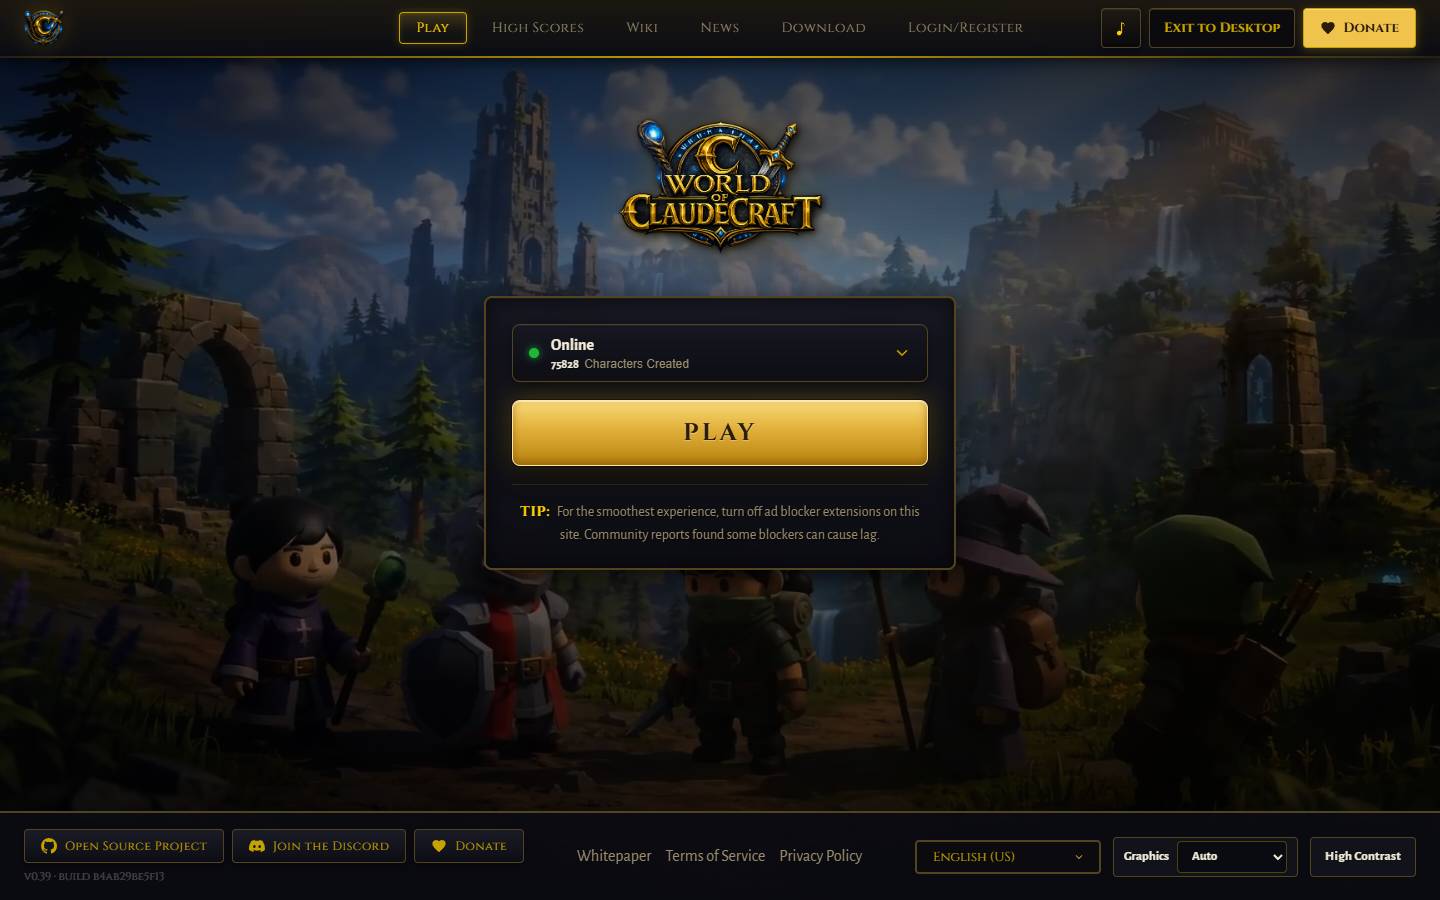
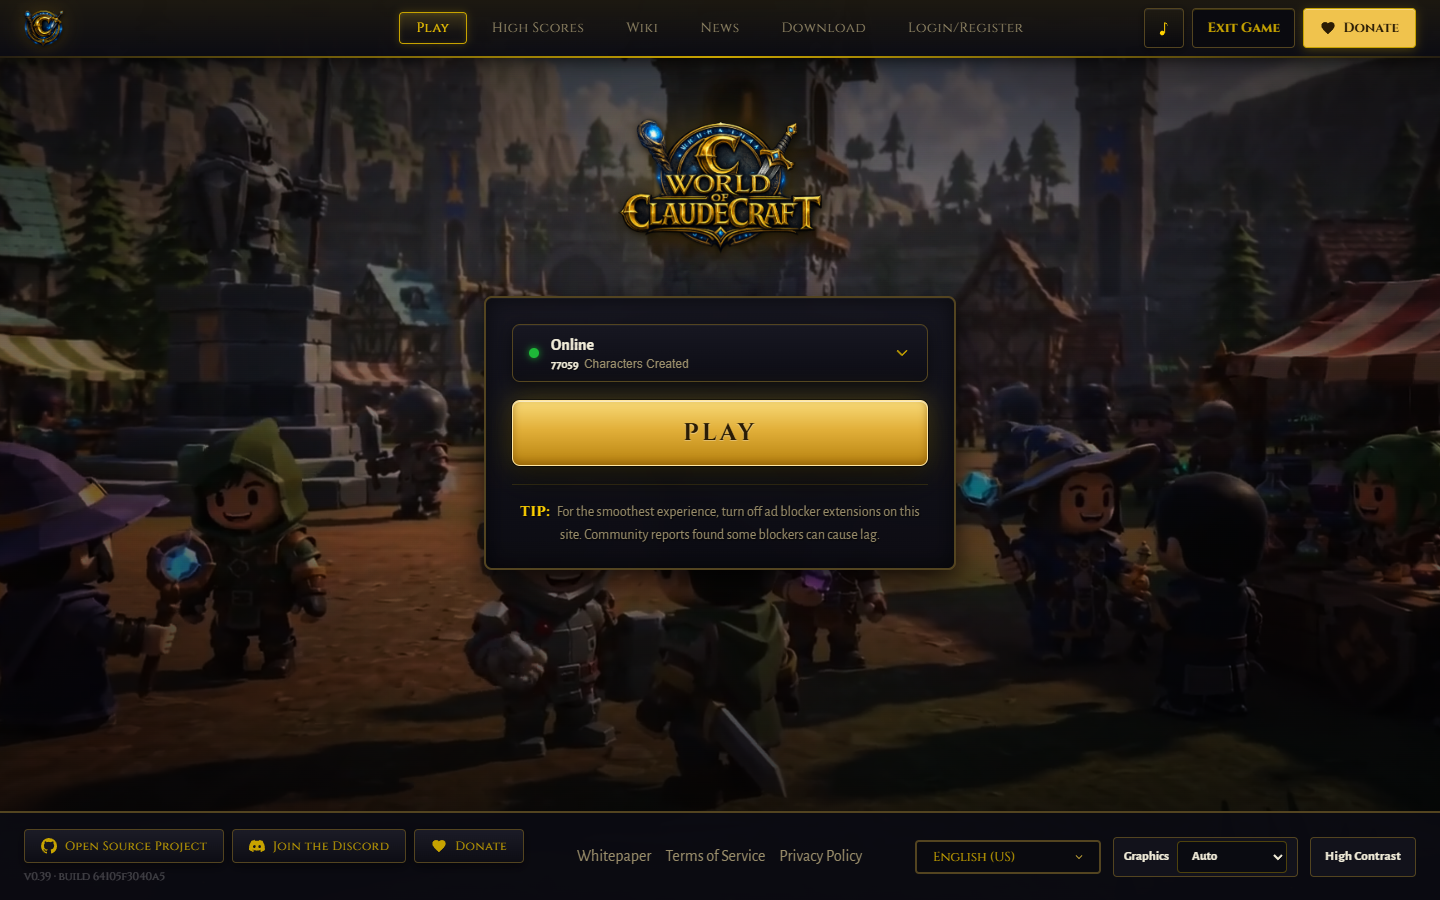
fix(i18n): rename the exit control key and fill every locale
The key was `desktop.window.exitToDesktop`, whose dotted `window` segment and
`window: {` catalog shape read as a browser-global reach to the src/ui purity
sweep, so the feature narrowed two detectors in tests/architecture.test.ts to
get green. Weakening a repo-wide invariant guard to fit our own naming is the
wrong trade: dropping `:` from the value-position class also stopped catching
a real reach such as `cond ? window : x`. The key is now
`desktop.titlebar.exitGame` and tests/architecture.test.ts is restored byte
for byte to the release base, guard strength intact.

The label reads Exit Game rather than Exit to Desktop: it says what the
control does in fewer words, and it keeps the string out of the wordy class
the M16 completeness check polices, so nothing about it leans on an
exception. All 21 locales are filled, so the registry reports pending=0, and
the after screenshot is recaptured from the borderless Electron shell.

diff --git a/tests/architecture.test.ts b/tests/architecture.test.ts
@@ -1643,9 +1643,7 @@ const SWEPT_BY_NAME_RE = /_(?:view|core|painter)\.ts$/;
 const UI_HOST_GLOBALS = 'document|window|navigator|localStorage|sessionStorage|globalThis';
 // Dereferenced: `window.innerWidth`, `globalThis?.localStorage`, `document['x']`,
 // and the formatter's broken member chain.
-const UI_HOST_MEMBER_RE = new RegExp(
-  `(?<!desktop\\.)\\b(?:${UI_HOST_GLOBALS})\\??\\s*(?:\\.[A-Za-z_$]|\\[)`,
-);
+const UI_HOST_MEMBER_RE = new RegExp(`\\b(?:${UI_HOST_GLOBALS})\\??\\s*(?:\\.[A-Za-z_$]|\\[)`);
 // Assigned, passed, returned, spread, shorthanded, probed or cast rather than
 // dereferenced: `= document)`, `(document)`, `return document;`, `() => window`,
 // `{ document }`, `[document, window]`, `{ ...globalThis }`,
@@ -1654,7 +1652,7 @@ const UI_HOST_MEMBER_RE = new RegExp(
 // open brace refuses a `${...}` interpolation so a template variable named
 // `window` (talent_i18n has one) is not mistaken for the global.
 const UI_HOST_VALUE_RE = new RegExp(
-  `typeof\\s+(?:${UI_HOST_GLOBALS})\\b|(?:[=(,?!\\[]|(?<!\\$)\\{|=>|\\.\\.\\.|\\breturn)\\s*(?:${UI_HOST_GLOBALS})\\s*(?:[),;!=}\\]]|\\s+as\\b|$)`,
+  `typeof\\s+(?:${UI_HOST_GLOBALS})\\b|(?:[=(,?!\\[]|(?<!\\$)\\{|=>|\\.\\.\\.|\\breturn)\\s*(?:${UI_HOST_GLOBALS})\\s*(?:[),;:!=}\\]]|\\s+as\\b|$)`,
   'm',
 );
 // window.location reached bare. Pinned to the real Location members so a game
@@ -1715,7 +1713,7 @@ const HELPER_HOST_PATTERNS: ReadonlyArray<readonly [string, RegExp]> = [
   [
     'a browser global, passed or probed',
     new RegExp(
-      `typeof\\s+(?:${HELPER_HOST_GLOBALS})\\b|(?:[=(,?!\\[]|(?<!\\$)\\{|=>|\\.\\.\\.|\\breturn)\\s*(?:${HELPER_HOST_GLOBALS})\\s*(?:[),;!=}\\]]|\\s+as\\b|$)`,
+      `typeof\\s+(?:${HELPER_HOST_GLOBALS})\\b|(?:[=(,?!\\[]|(?<!\\$)\\{|=>|\\.\\.\\.|\\breturn)\\s*(?:${HELPER_HOST_GLOBALS})\\s*(?:[),;:!=}\\]]|\\s+as\\b|$)`,
       'm',
     ),
   ],
@@ -1768,9 +1766,8 @@ const UI_PAINTER_HELPERS = [
 // reach is a clock or an RNG in a module that is otherwise pure, inject it instead
 // and stay out of both lists.
 //
-// The rot mode to know: a future catalog value carrying a bare string like
-// 'window.open' would trip the member matcher inside a data file. A dotted key
-// namespace such as 'desktop.window.exitToDesktop' is not a global reach. Most of the
+// The rot mode to know: a future catalog value carrying a string like
+// 'window.open' would trip the member matcher inside a data file. Most of the
 // residual modules are i18n catalogs, overlays and generated bundles (the
 // anti-vacuity pin below keeps them in scope) and NONE trips it today; they stay
 // in the sweep on purpose, since a directory exclusion is a hole of exactly the
@@ -2100,7 +2097,6 @@ describe('src/ui module classification (every module is swept by exactly one gat
       "'This document. Signed.',",
       'const windowless = computeViewport();',
       'this.documentTitle = t;',
-      "'desktop.window.exitToDesktop': 'Exit to Desktop',",
     ]) {
       expect(UI_HOST_MEMBER_RE.test(negative), negative).toBe(false);
     }
@@ -2125,7 +2121,6 @@ describe('src/ui module classification (every module is swept by exactly one gat
       "'Close the window, then click the marker.',",
       "'Open the document; read it.',",
       'const shadowWindow = 1;',
-      'window: { exitToDesktop: label },',
       // A template variable named window (talent_i18n has one) is not the global,
       // which is why the open-brace arm refuses a ${...} interpolation.
       `const label = \`(\${window})\`;`,

diff --git a/tests/client_shell.test.ts b/tests/client_shell.test.ts
@@ -216,11 +216,11 @@ describe('client HTML shell', () => {
     expect(controls[1]).toBe(controls[0]);
     expect(controls[0]).toContain('type="button"');
     expect(controls[0]).toContain('class="desktop-login-exit"');
-    expect(controls[0]).toContain('data-i18n="desktop.window.exitToDesktop"');
-    expect(controls[0]).toContain('data-i18n-title="desktop.window.exitToDesktop"');
-    expect(controls[0]).toContain('title="Exit to Desktop"');
+    expect(controls[0]).toContain('data-i18n="desktop.titlebar.exitGame"');
+    expect(controls[0]).toContain('data-i18n-title="desktop.titlebar.exitGame"');
+    expect(controls[0]).toContain('title="Exit Game"');
     expect(controls[0]).toMatch(/\n\s+hidden\s*\n/);
-    expect(controls[0]).toContain('>Exit to Desktop</button>');
+    expect(controls[0]).toContain('>Exit Game</button>');
     for (const entry of [html, playHtml]) {
       expect(entry.match(/id="desktop-login-exit"/g)).toHaveLength(1);
       const headerActions = entry.match(/<div class="header-actions">([\s\S]*?)<\/div>/)?.[1] ?? '';
@@ -261,14 +261,29 @@ describe('client HTML shell', () => {
     expect(mainTs).not.toContain('desktop-login-exit');
   });
 
-  it('pins the approved Exit to Desktop glossary values', () => {
-    expect(shellStrings.en.desktop.window.exitToDesktop).toBe('Exit to Desktop');
+  it('pins the approved Exit Game values in every locale overlay', () => {
+    expect(shellStrings.en.desktop.titlebar.exitGame).toBe('Exit Game');
     for (const [locale, translation] of [
-      ['zh_CN', '退出到桌面'],
-      ['zh_TW', '離開至桌面'],
-      ['ja_JP', 'デスクトップに戻る'],
-      ['ko_KR', '바탕 화면으로 나가기'],
-      ['ru_RU', 'Выйти на рабочий стол'],
+      ['cs_CZ', 'Ukončit hru'],
+      ['da_DK', 'Afslut spillet'],
+      ['de_DE', 'Spiel beenden'],
+      ['es', 'Salir del juego'],
+      ['es_ES', 'Salir del juego'],
+      ['fr_CA', 'Quitter le jeu'],
+      ['fr_FR', 'Quitter le jeu'],
+      ['id_ID', 'Keluar dari Gim'],
+      ['it_IT', 'Esci dal gioco'],
+      ['ja_JP', 'ゲームを終了'],
+      ['ko_KR', '게임 종료'],
+      ['nl_NL', 'Spel afsluiten'],
+      ['pl_PL', 'Zakończ grę'],
+      ['pt_BR', 'Sair do jogo'],
+      ['ru_RU', 'Выйти из игры'],
+      ['sv_SE', 'Avsluta spelet'],
+      ['tr_TR', 'Oyundan Çık'],
+      ['vi_VN', 'Thoát trò chơi'],
+      ['zh_CN', '退出游戏'],
+      ['zh_TW', '離開遊戲'],
     ]) {
       const overlay = readFileSync(
         new URL(`../src/ui/i18n.locales/${locale}.ts`, import.meta.url),
@@ -276,7 +291,7 @@ describe('client HTML shell', () => {
       )
         .replace(/(^|[^:])\/\/[^\n]*/gm, '$1')
         .replace(/\/\*[\s\S]*?\*\//g, '');
-      expect(overlay).toContain(`'desktop.window.exitToDesktop': '${translation}'`);
+      expect(overlay).toContain(`'desktop.titlebar.exitGame': '${translation}'`);
     }
   });
 

diff --git a/src/ui/i18n.resolved.generated/pending.ts b/src/ui/i18n.resolved.generated/pending.ts
@@ -9,55 +9,25 @@
 // Reproducibility is checked by tests/i18n_resolved_equivalence.test.ts.
 
 export const pending: Record<string, readonly string[]> = {
-  "es": [
-    "desktop.window.exitToDesktop"
-  ],
-  "es_ES": [
-    "desktop.window.exitToDesktop"
-  ],
-  "fr_FR": [
-    "desktop.window.exitToDesktop"
-  ],
-  "fr_CA": [
-    "desktop.window.exitToDesktop"
-  ],
+  "es": [],
+  "es_ES": [],
+  "fr_FR": [],
+  "fr_CA": [],
   "en_CA": [],
-  "it_IT": [
-    "desktop.window.exitToDesktop"
-  ],
-  "de_DE": [
-    "desktop.window.exitToDesktop"
-  ],
+  "it_IT": [],
+  "de_DE": [],
   "zh_CN": [],
   "zh_TW": [],
   "ko_KR": [],
   "ja_JP": [],
-  "pt_BR": [
-    "desktop.window.exitToDesktop"
-  ],
+  "pt_BR": [],
   "ru_RU": [],
-  "cs_CZ": [
-    "desktop.window.exitToDesktop"
-  ],
-  "nl_NL": [
-    "desktop.window.exitToDesktop"
-  ],
-  "pl_PL": [
-    "desktop.window.exitToDesktop"
-  ],
-  "id_ID": [
-    "desktop.window.exitToDesktop"
-  ],
-  "tr_TR": [
-    "desktop.window.exitToDesktop"
-  ],
-  "sv_SE": [
-    "desktop.window.exitToDesktop"
-  ],
-  "vi_VN": [
-    "desktop.window.exitToDesktop"
-  ],
-  "da_DK": [
-    "desktop.window.exitToDesktop"
-  ]
+  "cs_CZ": [],
+  "nl_NL": [],
+  "pl_PL": [],
+  "id_ID": [],
+  "tr_TR": [],
+  "sv_SE": [],
+  "vi_VN": [],
+  "da_DK": []
 };

diff --git a/src/ui/i18n.locales/fr_CA.ts b/src/ui/i18n.locales/fr_CA.ts
@@ -11,6 +11,7 @@
 import type { TranslationKey } from '../i18n.catalog';
 
 export const fr_CA: Partial<Record<TranslationKey, string>> = {
+  'desktop.titlebar.exitGame': 'Quitter le jeu',
   'hud.errors.tradeAlreadyTrading': 'Ce joueur est déjà en train de faire un échange.',
   'guide.professions.craftMasteryBody':
     "Quelques attentes honnêtes : la montée jusqu'au plafond de 125 d'un métier demande au moins 125 fabrications réussies, chaque fabrication à gain complet vous faisant progresser d'exactement un point, et en pratique un peu plus au fur et à mesure que les recettes s'estompent entre les échelons du formateur. La fabrication elle-même est rapide ; c'est l'approvisionnement qui constitue le vrai voyage, alors prévoyez quelques soirées dédiées à la récolte et à l'artisanat par métier.\n\nLes métiers de récolte atteignent leur plafond de 100 au fil d'une progression normale si vous récoltez en voyageant, bien que le dernier tronçon réclame les noeuds de haut palier du grand nord. La Pêche est la longue route par conception : selon son propre barème de gain, 200 points de maîtrise représentent plus de trois mille prises. Grand Pêcheur est un titre qui se gagne au fil d'une saison de soirées tranquilles, pas d'une fin de semaine.",

diff --git a/index.html b/index.html
@@ -731,11 +731,11 @@
             type="button"
             class="desktop-login-exit"
             id="desktop-login-exit"
-            data-i18n="desktop.window.exitToDesktop"
-            data-i18n-title="desktop.window.exitToDesktop"
-            title="Exit to Desktop"
+            data-i18n="desktop.titlebar.exitGame"
+            data-i18n-title="desktop.titlebar.exitGame"
+            title="Exit Game"
             hidden
-          >Exit to Desktop</button>
+          >Exit Game</button>
           <a class="donate-cta" href="https://ko-fi.com/worldofclaudecraft" target="_blank" rel="noopener noreferrer" data-i18n-title="a11y.donateProject" data-i18n-aria="a11y.donateProject" title="Support the project" aria-label="Donate to support World of ClaudeCraft">
             <svg viewBox="0 0 24 24" aria-hidden="true"><path fill="currentColor" d="M12 21.35l-1.45-1.32C5.4 15.36 2 12.28 2 8.5 2 5.42 4.42 3 7.5 3c1.74 0 3.41.81 4.5 2.09C13.09 3.81 14.76 3 16.5 3 19.58 3 22 5.42 22 8.5c0 3.78-3.4 6.86-8.55 11.54L12 21.35z"/></svg>
             <span data-i18n="nav.donate">Donate</span>

diff --git a/play.html b/play.html
@@ -674,11 +674,11 @@
             type="button"
             class="desktop-login-exit"
             id="desktop-login-exit"
-            data-i18n="desktop.window.exitToDesktop"
-            data-i18n-title="desktop.window.exitToDesktop"
-            title="Exit to Desktop"
+            data-i18n="desktop.titlebar.exitGame"
+            data-i18n-title="desktop.titlebar.exitGame"
+            title="Exit Game"
             hidden
-          >Exit to Desktop</button>
+          >Exit Game</button>
           <a class="donate-cta" href="https://ko-fi.com/worldofclaudecraft" target="_blank" rel="noopener noreferrer" data-i18n-title="a11y.donateProject" data-i18n-aria="a11y.donateProject" title="Support the project" aria-label="Donate to support World of ClaudeCraft">
             <svg viewBox="0 0 24 24" aria-hidden="true"><path fill="currentColor" d="M12 21.35l-1.45-1.32C5.4 15.36 2 12.28 2 8.5 2 5.42 4.42 3 7.5 3c1.74 0 3.41.81 4.5 2.09C13.09 3.81 14.76 3 16.5 3 19.58 3 22 5.42 22 8.5c0 3.78-3.4 6.86-8.55 11.54L12 21.35z"/></svg>
             <span data-i18n="nav.donate">Donate</span>

diff --git a/src/ui/i18n.locales/ru_RU.ts b/src/ui/i18n.locales/ru_RU.ts
@@ -7984,7 +7984,7 @@ export const ru_RU: Partial<Record<TranslationKey, string>> = {
   'desktop.crash.quit': 'Выйти',
   'desktop.crash.fatalBody':
     'World of ClaudeCraft столкнулась с непредвиденной ошибкой и будет закрыта.',
-  'desktop.window.exitToDesktop': 'Выйти на рабочий стол',
+  'desktop.titlebar.exitGame': 'Выйти из игры',
   'gpuNotice.bodyDesktop':
     'Игра работает без GPU-ускорения и будет сильно тормозить. Обновите драйверы видеокарты и перезапустите игру. В Windows также выберите для игры режим «Высокая производительность» в разделе Параметры > Система > Дисплей > Графика.',
   'gpuNotice.bodyDiscreteInactive':

diff --git a/src/ui/i18n.locales/ja_JP.ts b/src/ui/i18n.locales/ja_JP.ts
@@ -7867,7 +7867,7 @@ export const ja_JP: Partial<Record<TranslationKey, string>> = {
   'desktop.crash.reload': '再読み込み',
   'desktop.crash.quit': '終了',
   'desktop.crash.fatalBody': 'World of ClaudeCraft で予期しないエラーが発生したため、終了します。',
-  'desktop.window.exitToDesktop': 'デスクトップに戻る',
+  'desktop.titlebar.exitGame': 'ゲームを終了',
   'gpuNotice.bodyDesktop':
     'ゲームがGPUアクセラレーションなしで動作しているため、非常に重くなります。グラフィックドライバーを更新してから、ゲームを再起動してください。Windowsでは、設定 > システム > ディスプレイ > グラフィック でこのゲームを「高パフォーマンス」に設定してください。',
   'gpuNotice.bodyDiscreteInactive':

diff --git a/src/ui/i18n.locales/ko_KR.ts b/src/ui/i18n.locales/ko_KR.ts
@@ -7857,7 +7857,7 @@ export const ko_KR: Partial<Record<TranslationKey, string>> = {
   'desktop.crash.reload': '다시 불러오기',
   'desktop.crash.quit': '종료',
   'desktop.crash.fatalBody': 'World of ClaudeCraft에 예기치 않은 오류가 발생하여 종료해야 합니다.',
-  'desktop.window.exitToDesktop': '바탕 화면으로 나가기',
+  'desktop.titlebar.exitGame': '게임 종료',
   'gpuNotice.bodyDesktop':
     '게임이 GPU 가속 없이 실행되고 있어 매우 느립니다. 그래픽 드라이버를 업데이트한 뒤 게임을 다시 시작하세요. Windows에서는 설정 > 시스템 > 디스플레이 > 그래픽에서 이 게임을 "고성능"으로 설정하세요.',
   'gpuNotice.bodyDiscreteInactive':

diff --git a/src/ui/i18n.catalog/shell.ts b/src/ui/i18n.catalog/shell.ts
@@ -156,8 +156,12 @@ export const shellStrings = {
         quit: 'Quit',
         fatalBody: 'World of ClaudeCraft hit an unexpected error and needs to close.',
       },
-      window: {
-        exitToDesktop: 'Exit to Desktop',
+      // Borderless-mode title-bar control (index.html / play.html pre-game
+      // headers): the only way out when the shell hides the native window
+      // controls. Namespaced `titlebar`, never `window`, so the key never reads
+      // as a browser-global reach in the src/ui purity sweep.
+      titlebar: {
+        exitGame: 'Exit Game',
       },
     },
     // Software-rendering notice (src/ui/gpu_notice_toast.ts): shown once when

diff --git a/src/ui/i18n.locales/zh_TW.ts b/src/ui/i18n.locales/zh_TW.ts
@@ -7562,7 +7562,7 @@ export const zh_TW: Partial<Record<TranslationKey, string>> = {
   'desktop.crash.reload': '重新載入',
   'desktop.crash.quit': '離開',
   'desktop.crash.fatalBody': 'World of ClaudeCraft 發生未預期的錯誤，必須關閉。',
-  'desktop.window.exitToDesktop': '離開至桌面',
+  'desktop.titlebar.exitGame': '離開遊戲',
   'gpuNotice.bodyDesktop':
     '遊戲目前在沒有 GPU 加速的情況下執行，會非常緩慢。請更新顯示卡驅動程式後重新啟動遊戲。在 Windows 上，還請在 設定 > 系統 > 顯示器 > 顯示卡 中將本遊戲設為「高效能」。',
   'gpuNotice.bodyDiscreteInactive':

diff --git a/src/ui/i18n.locales/zh_CN.ts b/src/ui/i18n.locales/zh_CN.ts
@@ -7563,7 +7563,7 @@ export const zh_CN: Partial<Record<TranslationKey, string>> = {
   'desktop.crash.reload': '重新加载',
   'desktop.crash.quit': '退出',
   'desktop.crash.fatalBody': 'World of ClaudeCraft 遇到意外错误，需要关闭。',
-  'desktop.window.exitToDesktop': '退出到桌面',
+  'desktop.titlebar.exitGame': '退出游戏',
   'gpuNotice.bodyDesktop':
     '游戏正在没有 GPU 加速的情况下运行，会非常缓慢。请更新显卡驱动后重启游戏。在 Windows 上，还请在 设置 > 系统 > 显示 > 显示卡 中将本游戏设为“高性能”。',
   'gpuNotice.bodyDiscreteInactive':
